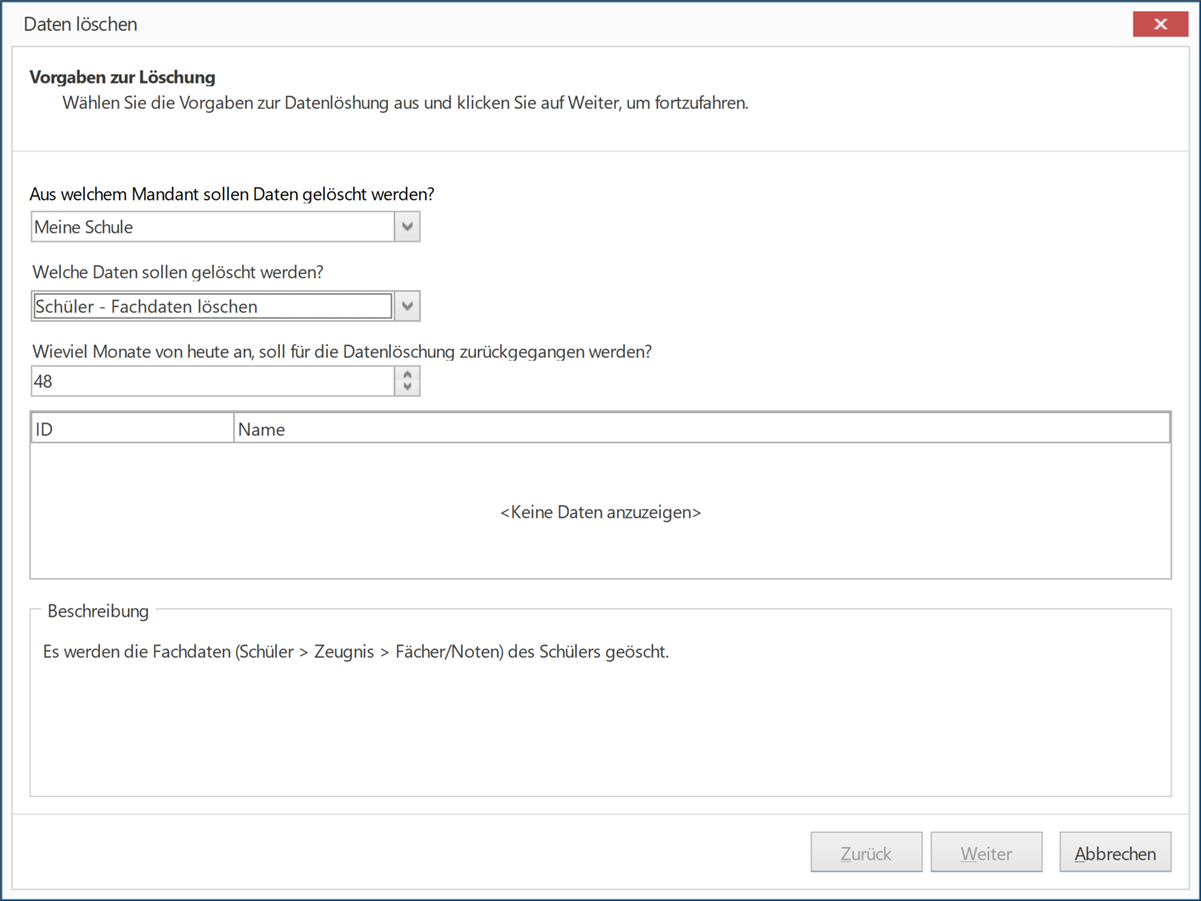
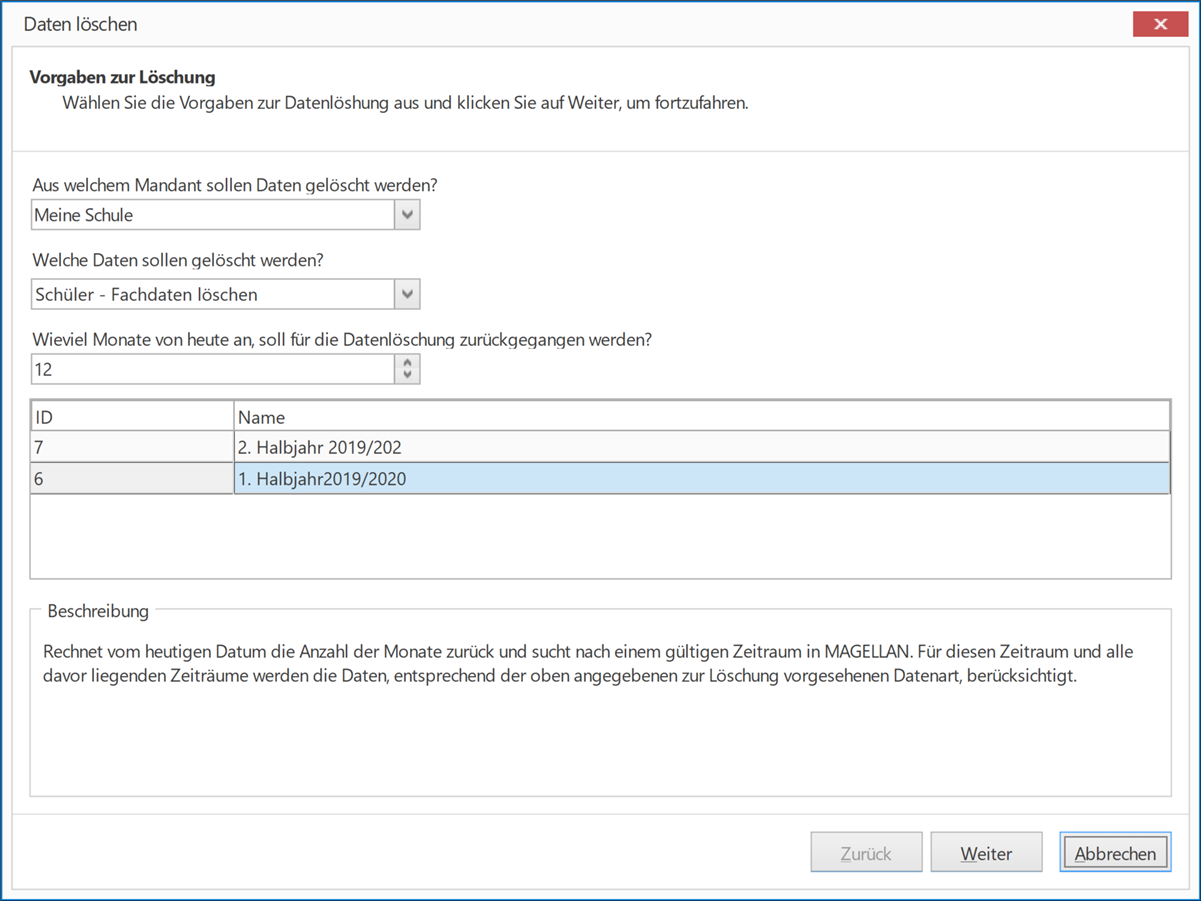
no message

diff --git a/docs/changelog/neu.mag9.md b/docs/changelog/neu.mag9.md
@@ -11,6 +11,7 @@
 [9]:/assets/images/neues/909.png
 [10]:/assets/images/neues/910.png
 [11]:/assets/images/neues/911.png
+[12]:/assets/images/neues/912.png
 
 **Das Kapitel wird aktuell bearbeitet.**
 
@@ -159,7 +160,14 @@ Die Anleitung hierfür finden Sie unter: [https://doc.magellan.stueber.de/schulv
 
 [![Aufruf][8]][8]
 
+Wählen Sie ob die Passbilder, die Fachdaten oder der Schülerdatensatz gelöscht werden sollen. Geben Sie eine Monatsanzahl ein, es werden die zum Löschen zu betrachtenden Zeiträume gezeigt.
+
 [![Assistent][9]][9]
+
+Der Assistent listet Ihnen die Schülerdatensätze auf, für die das Löschen durchgeführt wird. Bevor das Löschen erfolgt, wird eine Sicherung der Datenbank erstellt und es wird parallel zur Datenbanksicherung auch eine Excelliste mit den Schülerdatensätzen zur Nachkontrolle erzeugt. Die Ablagestelle für die Sicherung der Datenbank und die Protokolllisten ergeben sich aus Ihren Eintragungen in der Verbindung zur Datenbank.
+
+
+[![Aufruf][12]][12]
 
 ### Mandant vorbelegt
 
